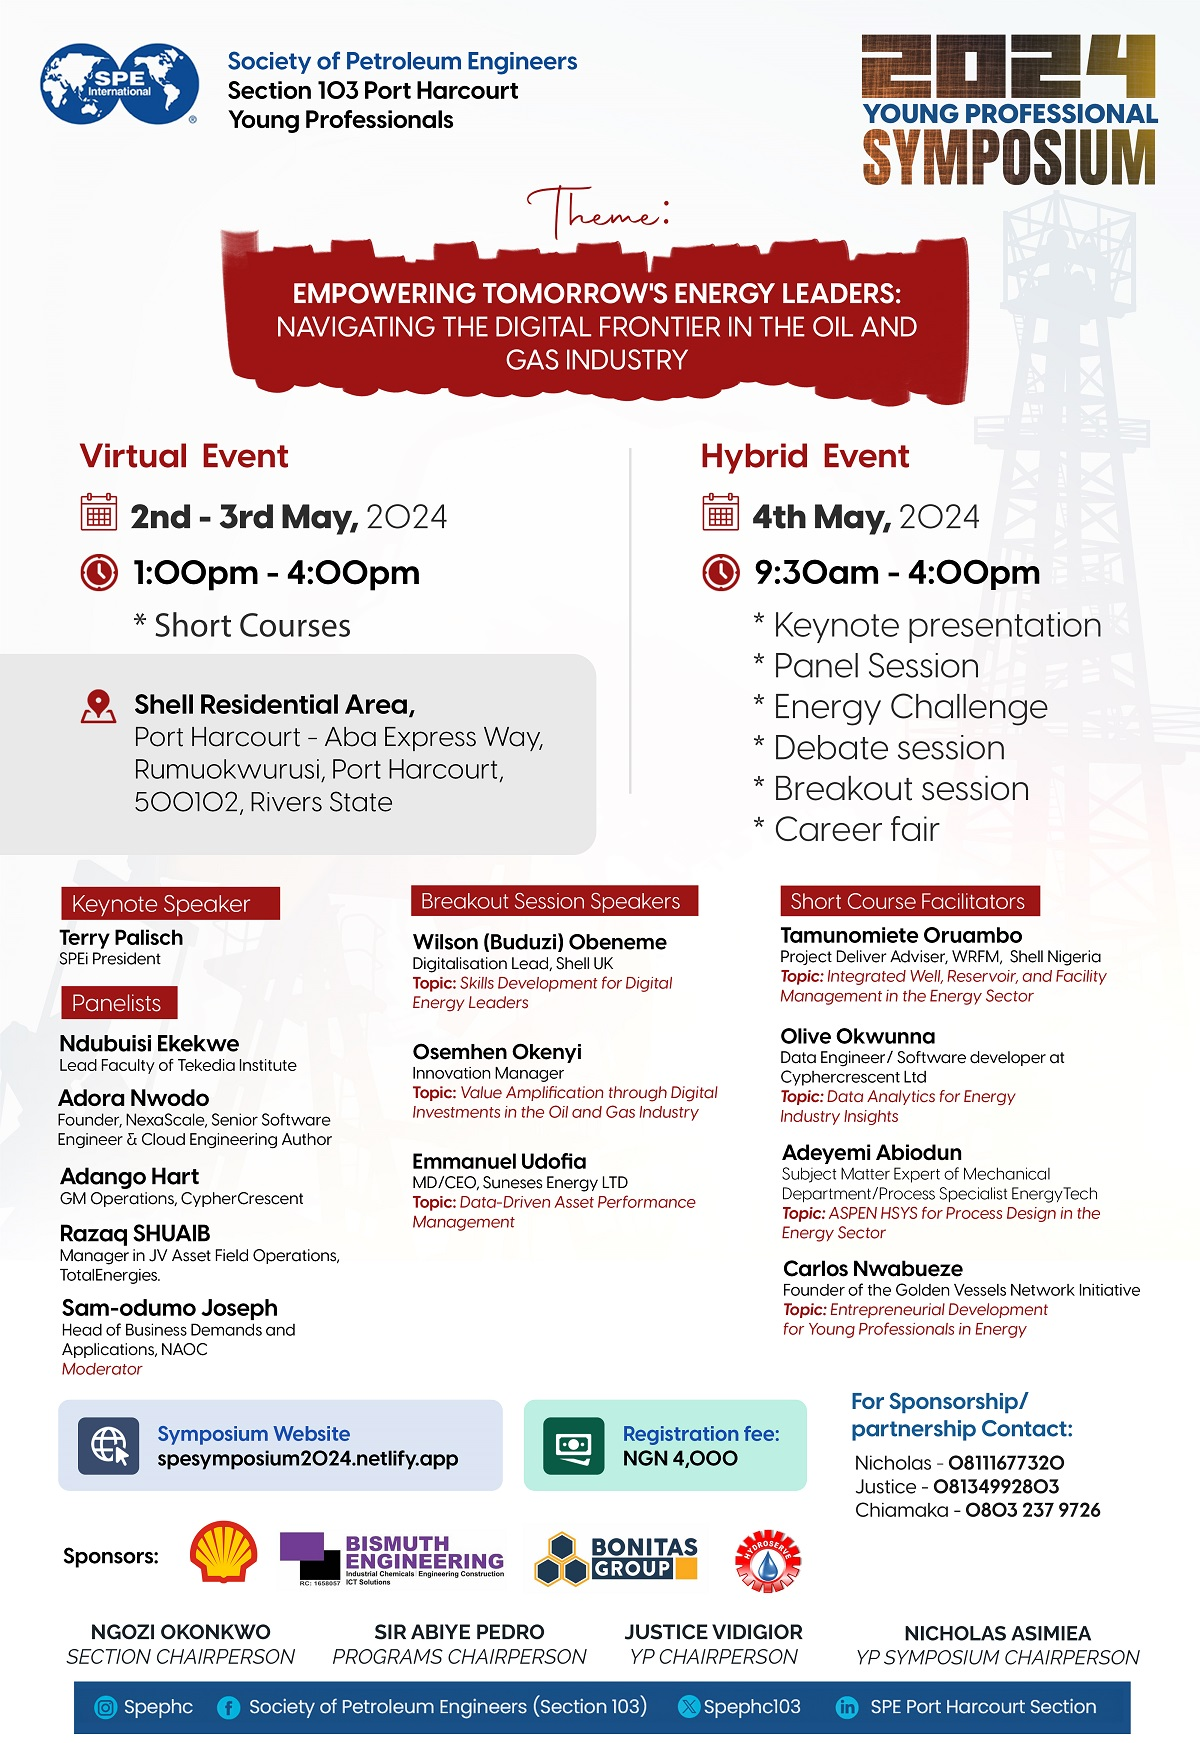
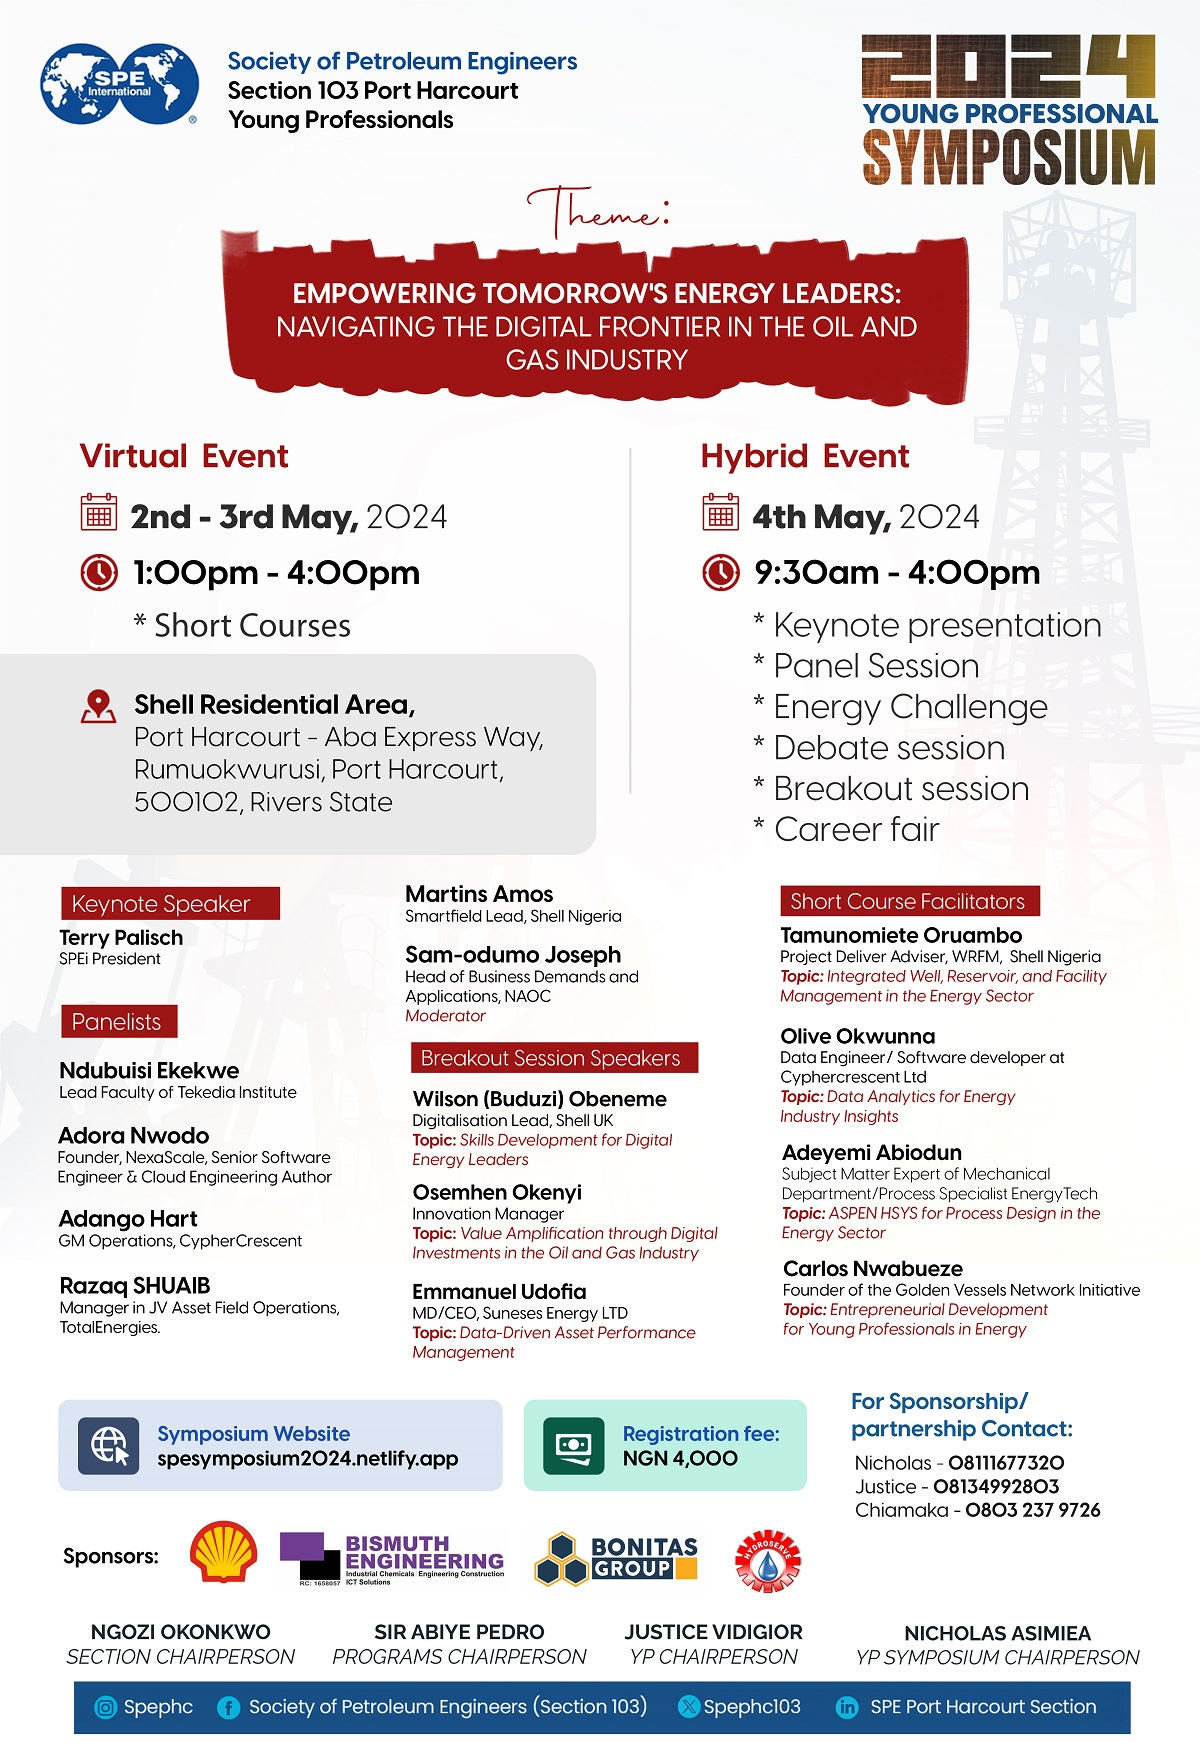
update

Changed region(s): [[0.3392, 0.4957, 0.5858, 0.7745], [0.0308, 0.5577, 0.2775, 0.8055]]

diff --git a/index.html b/index.html
@@ -213,7 +213,7 @@
                 <div class="card-writeup">
                     <p class="speaker-name">Prof. Ndubuisi Ekekwe</p>
                     <p class="speaker-title">Lead Faculty of Tekedia Institute</p>
-                    <p class="speaker-subtitle"><strong>Area of Focus: </strong>Entrepreneurial Innovations in the Digital Era</p>
+                    <p class="speaker-subtitle"><strong>Area of Focus: </strong>Digital Innovations and Entrepreneurship in Energy</p>
                     <a class="call-to-action" href="./detailpage/ekekwe.html">View More</a>
                 </div>
             </div>
@@ -223,7 +223,7 @@
                 <div class="card-writeup">
                     <p class="speaker-name">Adora Nwodo</p>
                     <p class="speaker-title">Founder, NexaScale, Senior Software Engineer & Cloud Engineering Author</p>
-                    <p class="speaker-subtitle"><strong>Area of Focus: </strong>Delivering Digital Solutions in Oilfield Services</p>
+                    <p class="speaker-subtitle"><strong>Area of Focus: </strong>Cybersecurity Challenges and Solutions</p>
                     <a class="call-to-action" href="./detailpage/adora.html">View More</a>
                 </div>
             </div>
@@ -233,7 +233,7 @@
                 <div class="card-writeup">
                     <p class="speaker-name">Adango Hart</p>
                     <p class="speaker-title">GM Operations, CypherCrescent</p>
-                    <p class="speaker-subtitle"><strong>Area of Focus: </strong>Digital Transformation in Oil and Gas Software Solutions</p>
+                    <p class="speaker-subtitle"><strong>Area of Focus: </strong>Talent Development and Training in the Digital Era</p>
                     <a class="call-to-action" href="./detailpage/hart.html">View More</a>
                 </div>
             </div>
@@ -243,8 +243,18 @@
                 <div class="card-writeup">
                     <p class="speaker-name">Razaq SHUAIB</p>
                     <p class="speaker-title">Manager in JV Asset Field Operations, TotalEnergies.</p>
-                    <p style="display: none;" class="speaker-subtitle"><strong>Area of Focus: </strong>Digital Transformation in Oil and Gas Software Solutions</p>
+                    <p class="speaker-subtitle"><strong>Area of Focus: </strong>C-Suite Perspectives on Digital Investment</p>
                     <a class="call-to-action" href="./detailpage/razaq.html">View More</a>
+                </div>
+            </div>
+
+            <div class="cards-container">
+                <img src="./assests/img/martins.jpg" alt="ayuk" class="card-image">
+                <div class="card-writeup">
+                    <p class="speaker-name">Martins Amos</p>
+                    <p class="speaker-title">Smartfield Lead, Shell Nigeria</p>
+                    <p style="display: none;" class="speaker-subtitle"><strong>Area of Focus: </strong>Smart Asset Management and Predictive Maintenance</p>
+                    <a class="call-to-action" href="./detailpage/martins.html">View More</a>
                 </div>
             </div>
             

diff --git a/detailpage/martins.html b/detailpage/martins.html
@@ -24,24 +24,20 @@
     <a href="../index.html#panel-section"><button class="btn btn-primary backbutton">Back to home page</button></a>
     
     <div class="speaker-title">
-        <h3>Razaq SHUAIB</h3>
-        <h4>Manager in JV Asset Field Operations, TotalEnergies.</h4>
-        <h5><strong>Area of Focus: </strong>C-Suite Perspectives on Digital Investment</h5>
+        <h3>Martins Amos</h3>
+        <h4>Smartfield Lead, Shell Nigeria</h4>
+        <h5><strong>Area of Focus: </strong>Smart Asset Management and Predictive Maintenance</h5>
     </div>
 
     <div class="speaker-container">
         <div class="speaker-image-container">
-            <img class="speaker-image" src="../assests/img/razaq.png" alt="nj ayuk">
-            <a target="_blank" href="https://www.linkedin.com/in/razaq-shuaib-63447427?utm_source=share&utm_campaign=share_via&utm_content=profile&utm_medium=android_app">
+            <img class="speaker-image" src="../assests/img/martins.jpg" alt="nj ayuk">
+            <a target="_blank" href="https://www.linkedin.com/in/martins-amos-pmp%C2%AE-mncs-mcpn-mspe-2621919?utm_source=share&utm_campaign=share_via&utm_content=profile&utm_medium=android_app">
                 <img class="linkedinLogo" src="../assests/img/linkedin-logo.png" alt="linkedin">
             </a>
         </div>
         <p class="speaker-bio">
-            Razaq SHUAIB is an oil and gas engineer with two decades of experience in diverse operational assets ranging from deepwater offshore to conventional offshore and onshore environments. <br><br>
-
-His expertise cuts across asset operations and maintenance management, project management, business continuity management, production optimization, process digitalisation, IOT and real-time oil & gas asset operational monitoring and control. <br><br>
-
-Razaq is currently focused on energy transition and renewable energies. Specifically, he is exploring the development of projects and businesses involving fit-for-purpose sustainable energy mix in sub-Saharan Africa. <br><br>
+            Have 21+ years in the Oil and Gas Industry. Have broad experience in IT, Realtime Systems, remote operations capability implementation, digital & technology,  production operations support and smart fields implementation,. Currently Smartfield Lead in WRFM Systems.
         </p>
     </div>
 </body>

diff --git a/detailpage/adora.html b/detailpage/adora.html
@@ -26,7 +26,7 @@
     <div class="speaker-title">
         <h3>Adora Nwodo</h3>
         <h4>Founder, NexaScale, Senior Software Engineer & Cloud Engineering Author</h4>
-        <h5><strong>Area of Focus: </strong>Delivering Digital Solutions in Oilfield Services</h5>
+        <h5><strong>Area of Focus: </strong>Cybersecurity Challenges and Solutions</h5>
     </div>
 
     <div class="speaker-container">

diff --git a/detailpage/ekekwe.html b/detailpage/ekekwe.html
@@ -26,7 +26,7 @@
     <div class="speaker-title">
         <h3>Prof. Ndubuisi Ekekwe</h3>
         <h4>Lead Faculty of Tekedia Institute</h4>
-        <h5><strong>Area of Focus: </strong>Entrepreneurial Innovations in the Digital Era</h5>
+        <h5><strong>Area of Focus: </strong>Digital Innovations and Entrepreneurship in Energy</h5>
     </div>
 
     <div class="speaker-container">

diff --git a/detailpage/hart.html b/detailpage/hart.html
@@ -26,7 +26,7 @@
     <div class="speaker-title">
         <h3>Adango Hart</h3>
         <h4>GM Operations, CypherCrescent</h4>
-        <h5><strong>Area of Focus: </strong>Digital Transformation in Oil and Gas Software Solutions</h5>
+        <h5><strong>Area of Focus: </strong>Talent Development and Training in the Digital Era</h5>
     </div>
 
     <div class="speaker-container">
